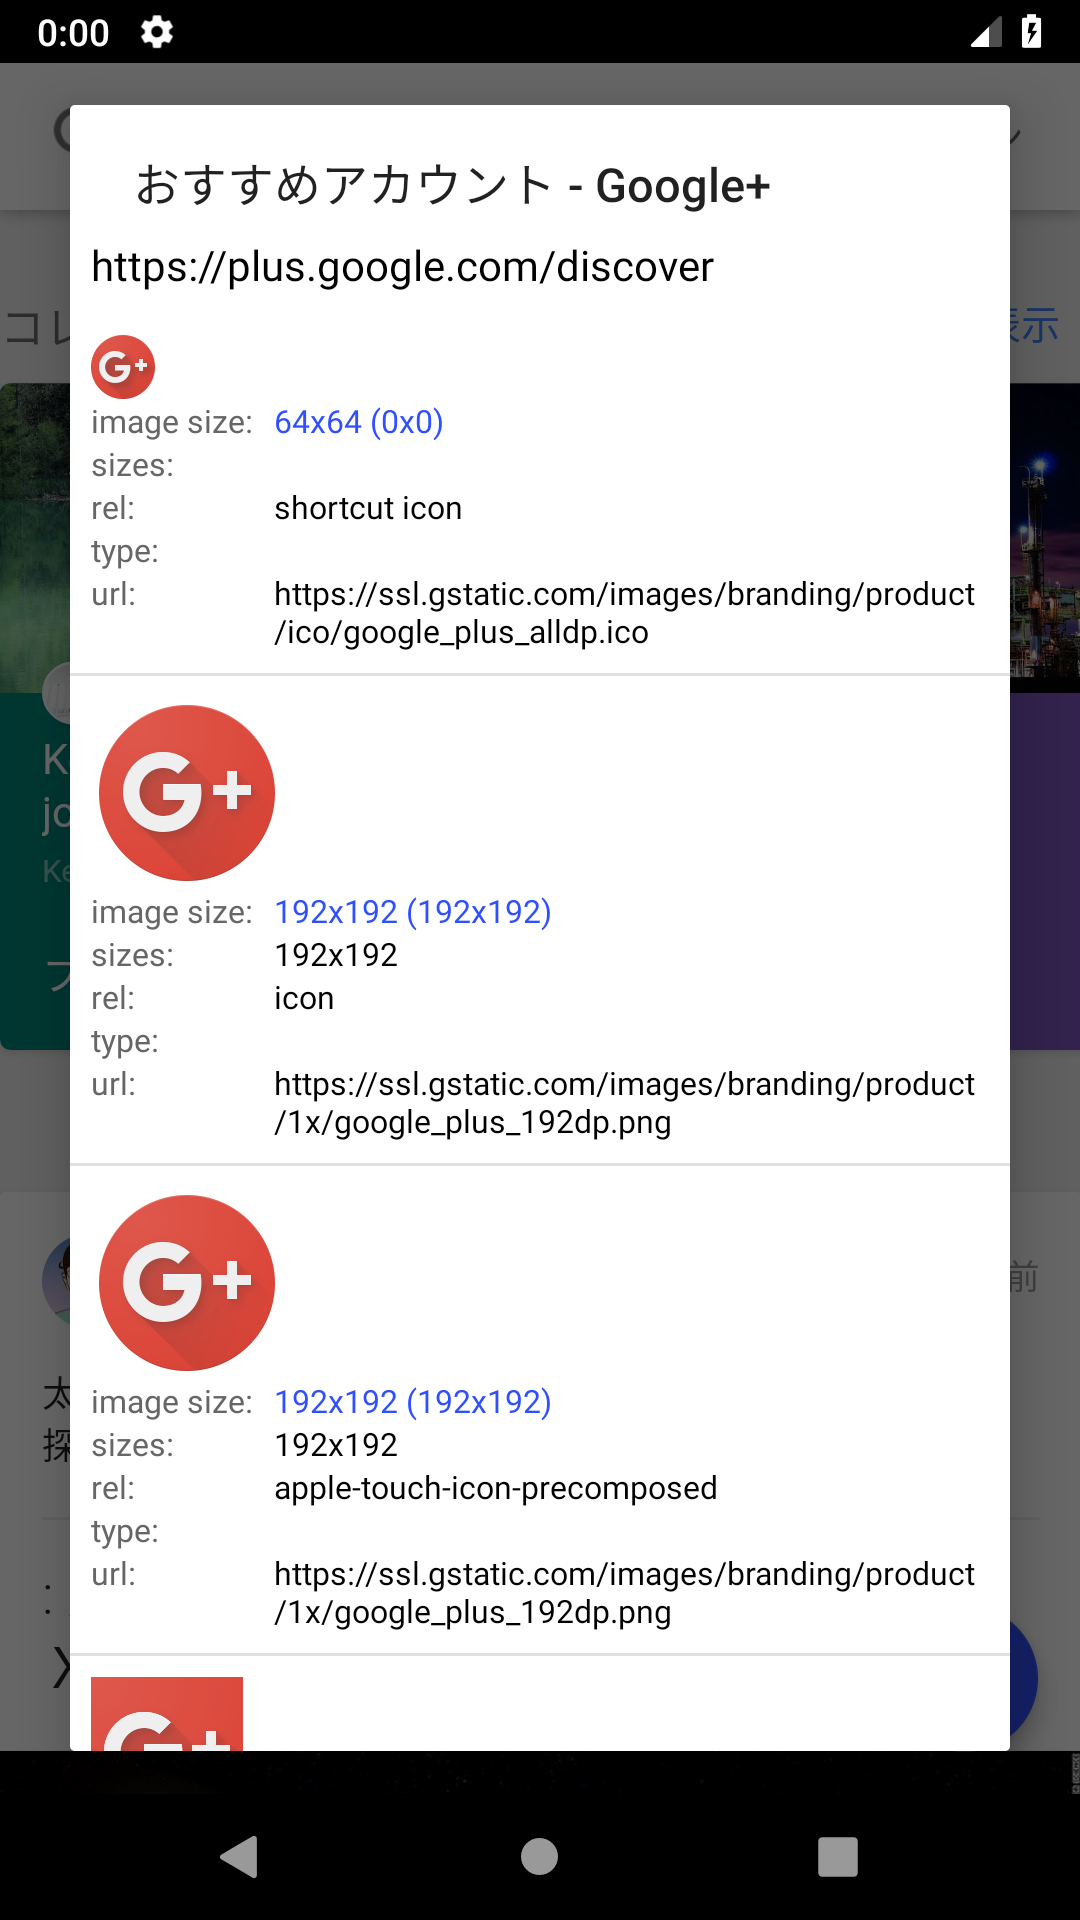
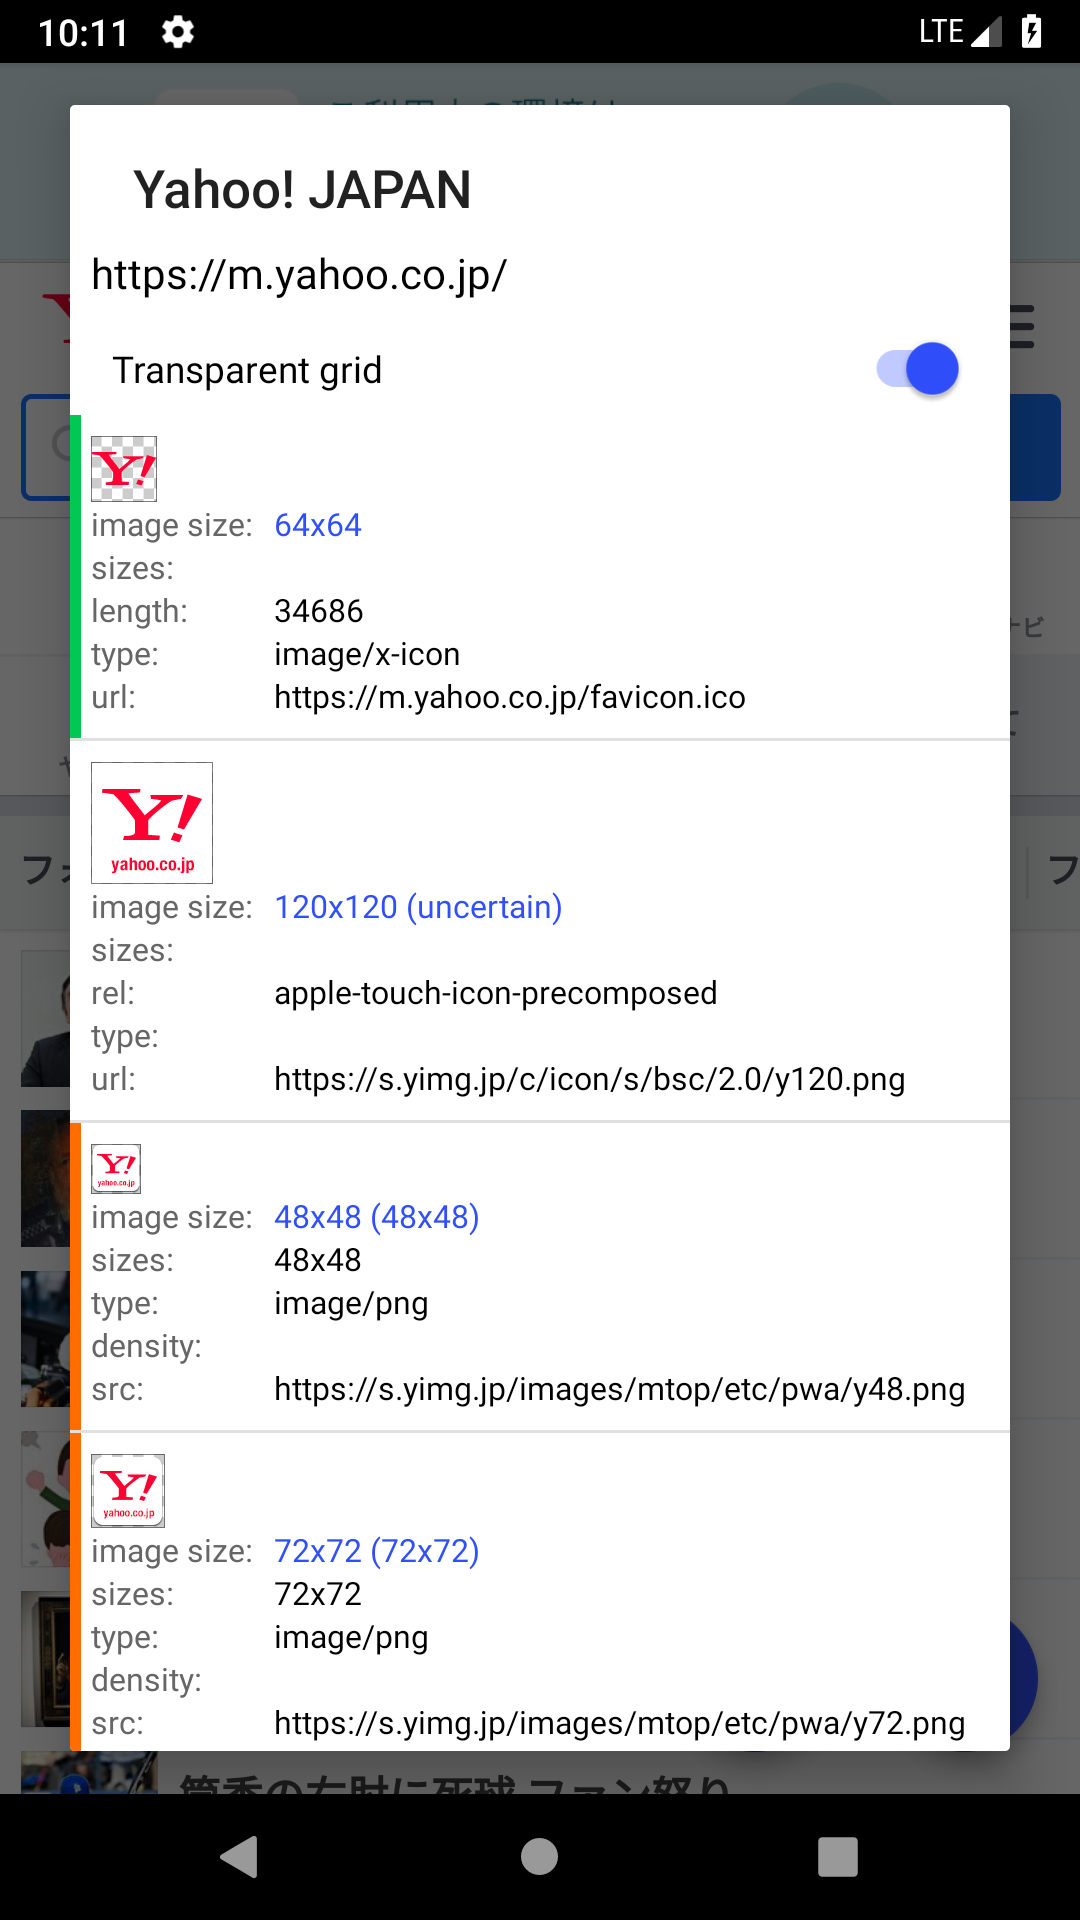
:sparkles: add transparent switch

diff --git a/sample/src/main/java/net/mm2d/touchicon/sample/IconDialog.kt b/sample/src/main/java/net/mm2d/touchicon/sample/IconDialog.kt
@@ -18,6 +18,7 @@ import android.os.Bundle
 import android.view.LayoutInflater
 import android.view.View
 import android.view.ViewGroup
+import android.widget.CompoundButton
 import android.widget.ImageView
 import android.widget.ProgressBar
 import android.widget.TextView
@@ -64,7 +65,7 @@ class IconDialog : DialogFragment() {
         val recyclerView: RecyclerView = view.findViewById(R.id.recycler_view)
         recyclerView.layoutManager = LinearLayoutManager(act)
         recyclerView.addItemDecoration(DividerItemDecoration(act, DividerItemDecoration.VERTICAL))
-        val adapter = IconListAdapter(act)
+        val adapter = IconListAdapter(act, view.findViewById(R.id.transparent_switch))
         recyclerView.adapter = adapter
         Single.fromCallable { extractor.fromPage(siteUrl, true) }
             .subscribeOn(Schedulers.io())
@@ -89,14 +90,30 @@ class IconDialog : DialogFragment() {
         compositeDisposable.dispose()
     }
 
-    private inner class IconListAdapter(context: Context) : RecyclerView.Adapter<IconViewHolder>() {
+    private inner class IconListAdapter(
+        context: Context,
+        private val transparentSwitch: CompoundButton
+    ) : RecyclerView.Adapter<IconViewHolder>() {
         private val list: MutableList<Icon> = mutableListOf()
         private val inflater = LayoutInflater.from(context)
+
+        init {
+            transparentSwitch.setOnCheckedChangeListener { _, _ ->
+                notifyDataSetChanged()
+            }
+        }
+
         override fun onCreateViewHolder(parent: ViewGroup, type: Int): IconViewHolder {
             return when (type) {
                 0 -> PageIconViewHolder(inflater.inflate(R.layout.li_page_icon, parent, false))
                 1 -> WebAppIconViewHolder(inflater.inflate(R.layout.li_web_app_icon, parent, false))
-                else -> DomainIconViewHolder(inflater.inflate(R.layout.li_domain_icon, parent, false))
+                else -> DomainIconViewHolder(
+                    inflater.inflate(
+                        R.layout.li_domain_icon,
+                        parent,
+                        false
+                    )
+                )
             }
         }
 
@@ -116,12 +133,12 @@ class IconDialog : DialogFragment() {
 
         @SuppressLint("SetTextI18n")
         override fun onBindViewHolder(holder: IconViewHolder, position: Int) {
-            holder.apply(list[position])
+            holder.apply(list[position], transparentSwitch.isChecked)
         }
     }
 
     private abstract class IconViewHolder(view: View) : RecyclerView.ViewHolder(view) {
-        abstract fun apply(iconInfo: Icon)
+        abstract fun apply(icon: Icon, transparent: Boolean)
     }
 
     @SuppressLint("SetTextI18n")
@@ -132,7 +149,8 @@ class IconDialog : DialogFragment() {
         val rel: TextView = view.findViewById(R.id.rel)
         val type: TextView = view.findViewById(R.id.type)
         val url: TextView = view.findViewById(R.id.url)
-        override fun apply(icon: Icon) {
+        override fun apply(icon: Icon, transparent: Boolean) {
+            iconImage.setBackgroundResource(selectBackground(transparent))
             itemView.tag = icon
             sizes.text = icon.sizes
             rel.text = icon.rel.value
@@ -161,7 +179,8 @@ class IconDialog : DialogFragment() {
         val type: TextView = view.findViewById(R.id.type)
         val density: TextView = view.findViewById(R.id.density)
         val url: TextView = view.findViewById(R.id.url)
-        override fun apply(icon: Icon) {
+        override fun apply(icon: Icon, transparent: Boolean) {
+            iconImage.setBackgroundResource(selectBackground(transparent))
             itemView.tag = icon
             sizes.text = icon.sizes
             type.text = icon.mimeType
@@ -183,6 +202,7 @@ class IconDialog : DialogFragment() {
                 .into(iconImage)
         }
     }
+
     @SuppressLint("SetTextI18n")
     private class DomainIconViewHolder(view: View) : IconViewHolder(view) {
         val iconImage: ImageView = view.findViewById(R.id.icon)
@@ -191,7 +211,8 @@ class IconDialog : DialogFragment() {
         val length: TextView = view.findViewById(R.id.length)
         val type: TextView = view.findViewById(R.id.type)
         val url: TextView = view.findViewById(R.id.url)
-        override fun apply(icon: Icon) {
+        override fun apply(icon: Icon, transparent: Boolean) {
+            iconImage.setBackgroundResource(selectBackground(transparent))
             itemView.tag = icon
             sizes.text = icon.sizes
             length.text = icon.length.toString()
@@ -248,6 +269,10 @@ class IconDialog : DialogFragment() {
                     return false
                 }
             }
+        }
+
+        private fun selectBackground(transparent: Boolean): Int {
+            return if (transparent) R.drawable.bg_icon else 0
         }
     }
 }
